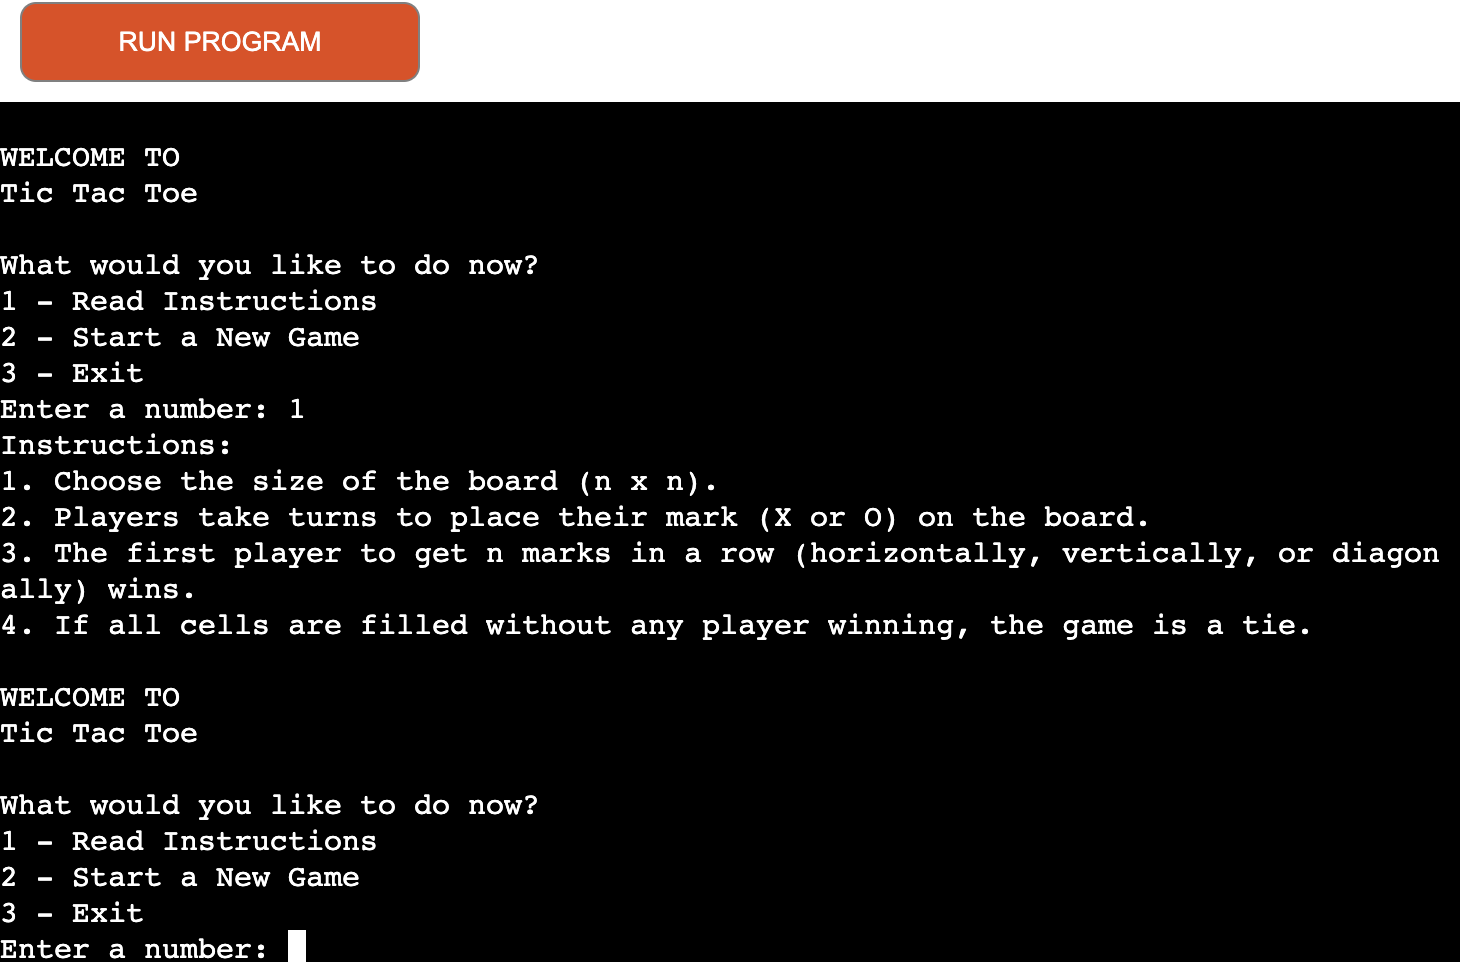
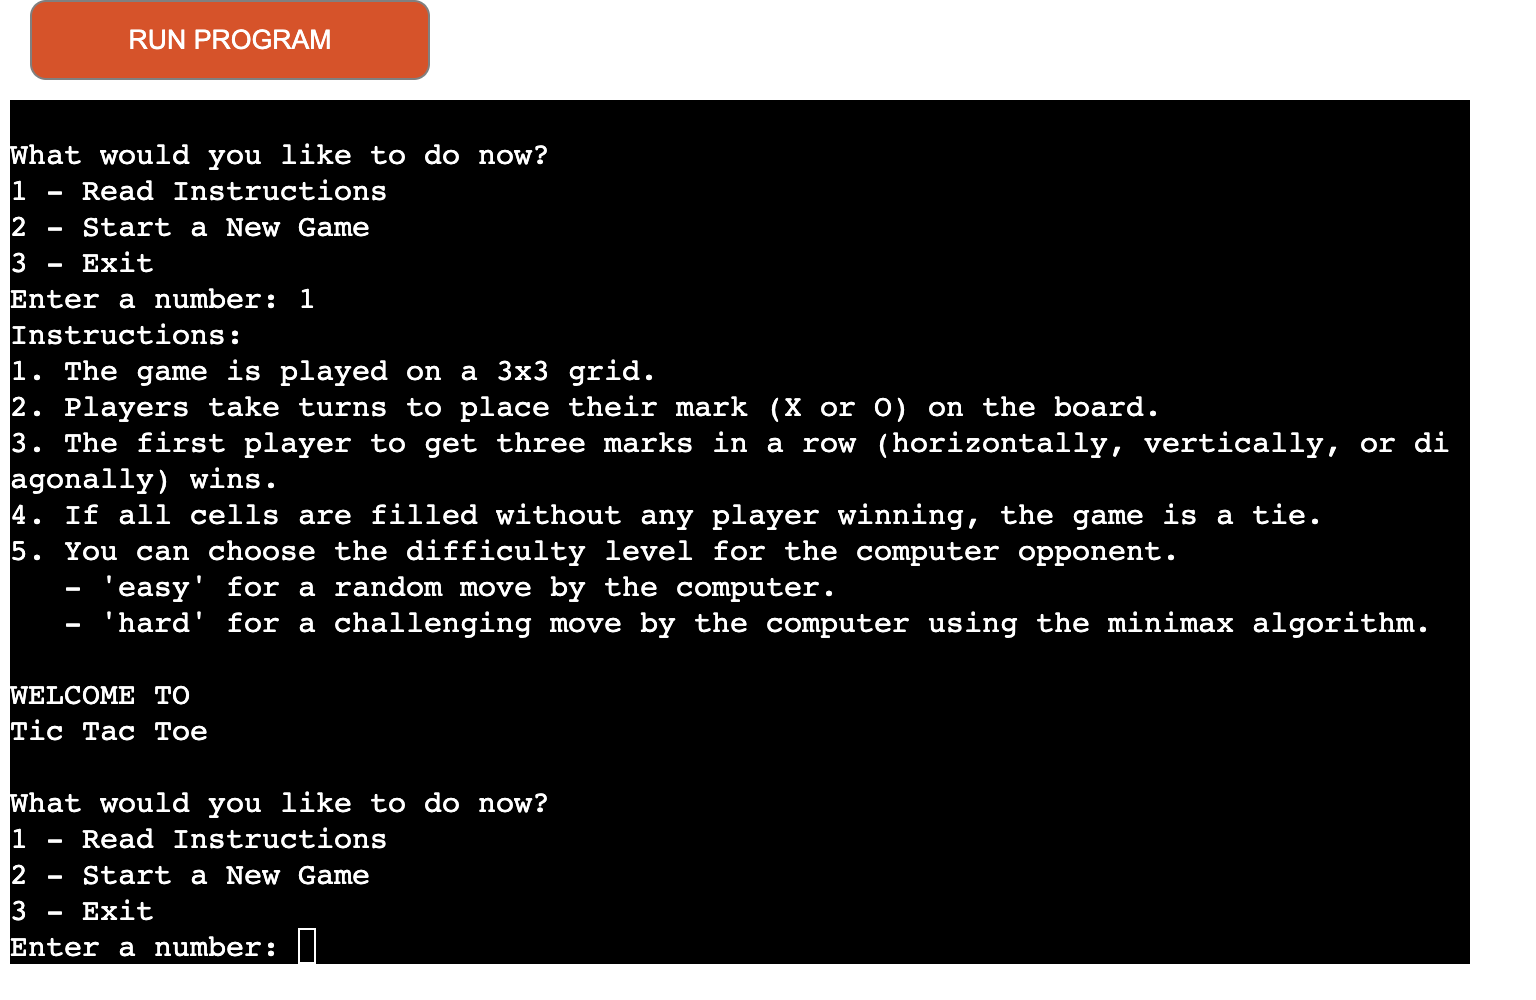
Adjust the information readme

Changed region(s): [[0.0, 0.0, 1.0, 1.0], [0.2812, 0.2495, 0.375, 0.2807], [0.2812, 0.0312, 0.3125, 0.0624]]

diff --git a/README.md b/README.md
@@ -44,12 +44,15 @@ Tic Tac Toe is a classic two-player game implemented in Python. The objective is
 ![Screenshot from heroku app](docs/instructions-game.png)
 
 ### Board Game
-- After choosing to start a new game, the curremt state of the board is displayed
+
+- After choosing to start a new game, the curremt state of the board is displayed.
 
 ![Screenshot from heroku app](docs/board-game.png)
 
 ### Level Difficulty
 
+- Option to choose the level of the game.
+![Screenshot from heroku app](docs/level-difficulty.png)
 
 ### Win Message
 
